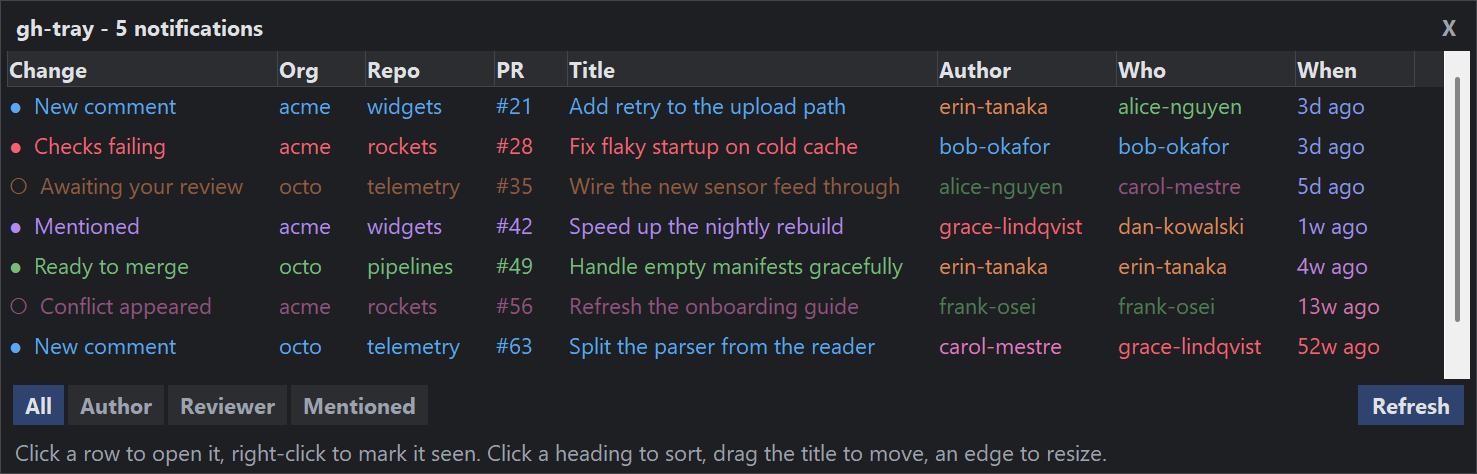
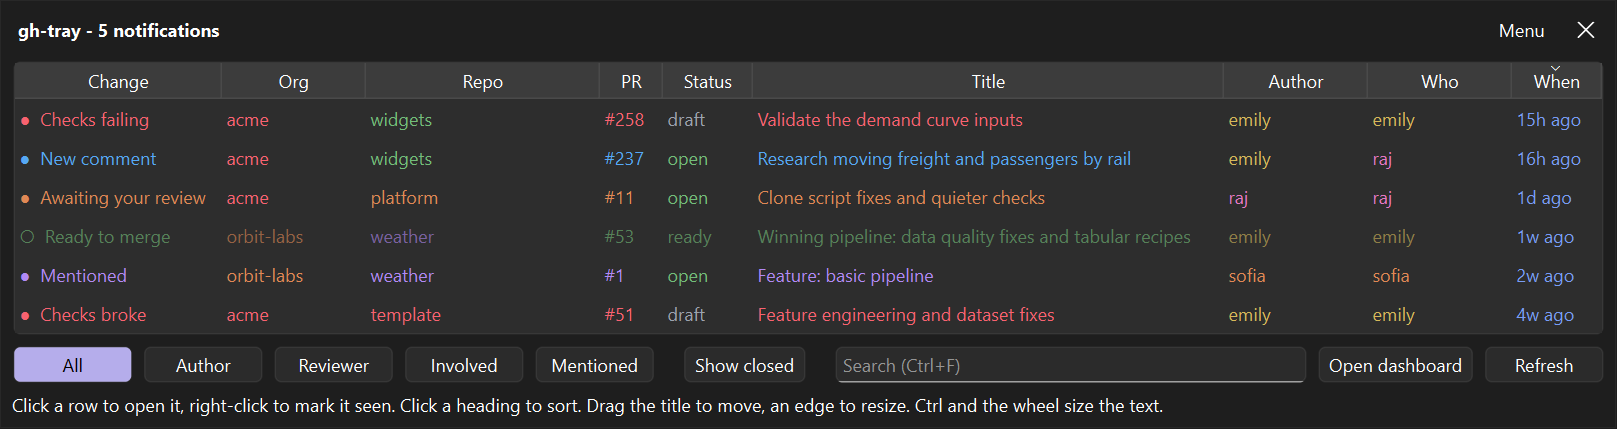
Retake the README screenshot from the Qt window, with sample data

diff --git a/src/gh_tray/status.py b/src/gh_tray/status.py
@@ -126,8 +126,8 @@ def fading_field(size: int) -> Image.Image:
 def app_icon(size: int = APP_ICON_SIZE) -> Image.Image:
     """Draw the application's own mark: three coloured dots as three rows of a list.
 
-    The same design as ``data/icon.svg``, which is the editable original and the one Linux desktops are given.
-    Windows and the notification service want a raster image, and drawing it here avoids carrying a renderer for
+    The same design as ``data/icon.svg``, which is the editable original. The desktops and the notification
+    service want a raster image, and drawing it here avoids carrying a renderer for
     vector graphics along with its native libraries just to produce one small picture.
 
     :param size: how many pixels square to draw it
